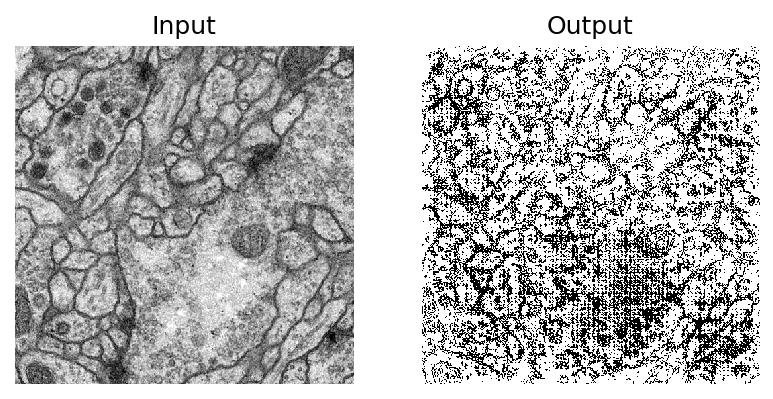
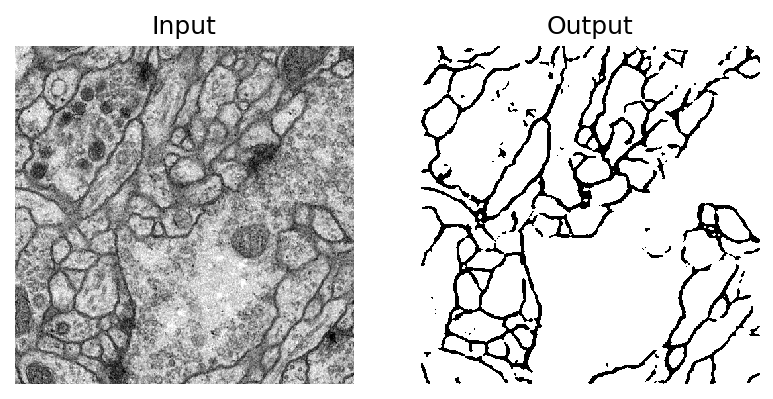
data augmentation & readme

Changed region(s): [[0.5278, 0.1203, 0.9935, 0.9624]]

diff --git a/dataset.py b/dataset.py
@@ -1,22 +1,45 @@
 from torch.utils.data import Dataset, DataLoader, random_split
 import numpy as np
 import tifffile
+import torchvision.transforms.functional as F
+import random
 
 
 class ISBIDataset(Dataset):
-    def __init__(self, transform):
+    def __init__(self):
         super().__init__()
         self.images = np.expand_dims(tifffile.TiffFile('data/ISBI/train-volume.tif').asarray(), axis=3)
         self.targets = np.expand_dims(tifffile.TiffFile('data/ISBI/train-labels.tif').asarray(), axis=3)
-        self.transform = transform
 
     def __getitem__(self, index):
-        image = self.images[index]
-        target = self.targets[index]
+        image = F.to_pil_image(self.images[index])
+        target = F.to_pil_image(self.targets[index])
 
-        if self.transform:
-            image = self.transform(image)
-            target = self.transform(target)
+        # augmentation
+        rotate = random.randint(0, 3)
+        if rotate == 1:
+            image = F.rotate(image, 180, fill=(0,))
+            target = F.rotate(target, 180, fill=(0,))
+        if rotate == 2:
+            image = F.rotate(image, 90, fill=(0,))
+            target = F.rotate(target, 90, fill=(0,))
+        if rotate == 3:
+            image = F.rotate(image, -90, fill=(0,))
+            target = F.rotate(target, -90, fill=(0,))
+
+        flip = random.randint(0, 2)
+        if flip == 1:
+            image = F.hflip(image)
+            target = F.hflip(target)
+        if flip == 2:
+            image = F.vflip(image)
+            target = F.vflip(target)
+
+        # image = F.resize(image, [64, 64])
+        # target = F.resize(target, [64, 64])
+
+        image = F.to_tensor(image)
+        target = F.to_tensor(target)
 
         return image, target
 
@@ -24,8 +47,8 @@ class ISBIDataset(Dataset):
         return len(self.images)
 
 
-def get_loader(batch_size, shuffle=True, transform=None):
-    dataset = ISBIDataset(transform=transform)
+def get_loader(batch_size, shuffle=True):
+    dataset = ISBIDataset()
 
     num_train = int(len(dataset) * 0.8)
     num_val = len(dataset) - num_train

diff --git a/train.py b/train.py
@@ -1,6 +1,5 @@
 import torch
 import torch.optim as optim
-from torchvision import transforms
 from helper import write_log, write_figures
 import numpy as np
 from dataset import get_loader
@@ -45,12 +44,10 @@ def train():
     device = torch.device("cuda:0" if (torch.cuda.is_available()) else "cpu")
     model = Model().to(device)
     batch_size = 2
-    num_epochs = 200
+    num_epochs = 100
     learning_rate = 0.1
 
-    # transform = transforms.ToTensor()
-    transform = transforms.Compose([transforms.ToPILImage(), transforms.Resize([64, 64]), transforms.ToTensor()])
-    train_loader, val_loader = get_loader(batch_size=batch_size, transform=transform, shuffle=True)
+    train_loader, val_loader = get_loader(batch_size=batch_size, shuffle=True)
 
     optimizer = optim.SGD(model.parameters(), lr=learning_rate, momentum=0.9, nesterov=True)
     scheduler = optim.lr_scheduler.ReduceLROnPlateau(optimizer, 'min')
@@ -63,7 +60,7 @@ def train():
         print('-----------------------------------------')
 
         if epoch == 0 or val_epoch_loss <= np.min(val_losses):
-            torch.save(model.state_dict(), 'output/weight.pth')
+            torch.save(model.state_dict(), 'output/weight_sigmoid.pth')
 
         train_losses.append(train_epoch_loss)
         val_losses.append(val_epoch_loss)

diff --git a/test.py b/test.py
@@ -13,7 +13,7 @@ model.eval()
 if __name__ == '__main__':
     inputs = torch.tensor(np.expand_dims(tifffile.TiffFile('data/ISBI/test-volume.tif').asarray(), axis=1) / 255)
     with torch.no_grad():
-        outputs = model(inputs[0:2].float().to(device))
+        outputs = model(inputs.float().to(device))
         outputs[outputs >= 0.5] = 1
         outputs[outputs < 0.5] = 0
 

diff --git a/README.md b/README.md
@@ -1,0 +1,23 @@
+# Image segmentation with U-net
+## General
+This is a simple implementation of U-net architecture for image segmentation, which was proposed in:
+
+*Olaf Ronneberger, Philipp Fischer, and Thomas Brox, "U-Net: Convolutional Networks for Biomedical Image Segmentation," Medical Image Computing and Computer-Assisted Intervention -- MICCAI 2015.*
+
+### Dataset
+The ISBI Challenge dataset: "Segmentation of neuronal structures in EM stacks" is used in this implementation. Input images and labels were loaded using tifffile package, then the data augmentation was conducted which is composed of rotation and flip.
+
+### Training
+```
+python train.py
+```
+Training and validation loss:
+![Image description](output/loss.png)
+### Testing
+```
+python test.py
+```
+Some experimental results:
+![Image description](results/img_0.png)
+![Image description](results/img_1.png)
+![Image description](results/img_2.png)
